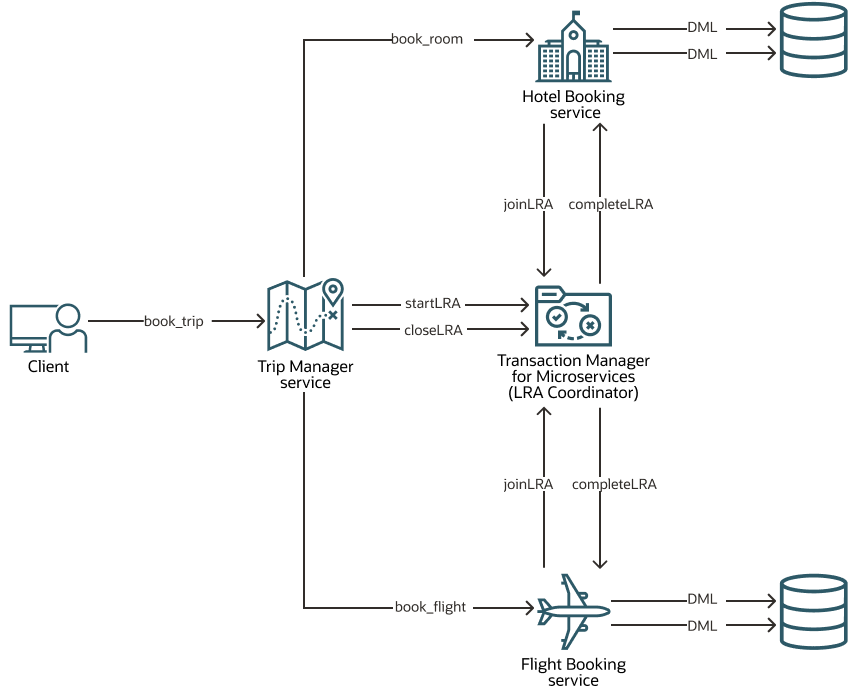
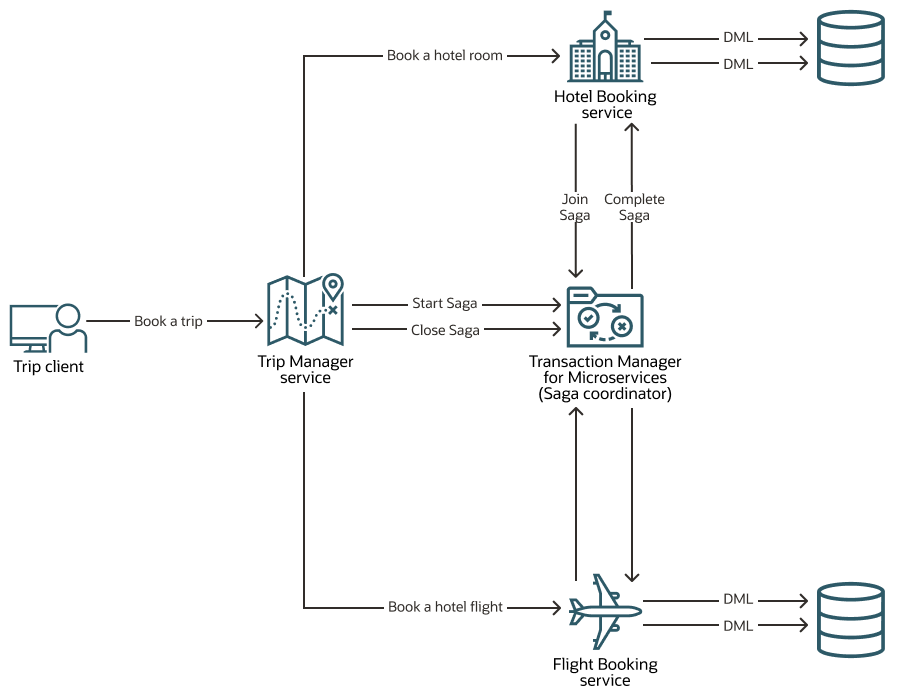
Updated link to download the latest ORDS image
Updated link to download the latest ORDS image
+ change in the links

diff --git a/tmm-run-sample-apps/run-lra-app/run-lra-app.md b/tmm-run-sample-apps/run-lra-app/run-lra-app.md
@@ -1,23 +1,23 @@
-# Run Travel Agent App which Uses LRA
+# Run Travel Agent App which Uses Saga
 
 ## Introduction
 
-Run a Travel Agent application that uses the Long Running Action (LRA) transaction protocol to book a trip and understand how you can use Oracle Transaction Manager for Microservices (MicroTx) to coordinate the transactions. Using samples is the fastest way for you to get familiar with MicroTx.
-Code for the Travel Agent application is available in the MicroTx distribution. The MicroTx library files are already integrated with the application code.
+Run a Travel Agent application that uses the Saga transaction protocol to book a trip and understand how you can use Oracle Transaction Manager for Microservices (MicroTx) to coordinate the transactions. The Saga transaction protocol is based on Eclipse MicroProfile Long Running Actions (LRA).
 
 Estimated Time: *10 minutes*
 
 Watch the video below for a quick walk-through of the lab.
-[Run the Travel Agent App Using LRA](videohub:1_0g2khxyc)
+[Run the Travel Agent App Using Saga](videohub:1_0g2khxyc)
 
 ### About the Travel Agent Application
 
-The Travel Agent  application demonstrates how you can develop microservices that participate in LRA transactions while using MicroTx to coordinate the transactions. When you run the application, it makes a provisional booking by reserving a hotel room and a flight ticket. Only when you provide approval to confirm the provisional booking, the booking of the hotel room and flight ticket is confirmed. If you cancel the provisional booking, the hotel room and flight ticket that was blocked is released and the booking is canceled. The flight service in this example allows only two confirmed bookings by default. To test the failure scenario, the flight service sample app rejects any additional booking requests after two confirmed bookings. This leads to the cancellation (compensation) of a provisionally booked hotel within the trip and the trip is not booked.
+The Travel Agent application demonstrates how you can develop microservices that participate in Saga transactions while using MicroTx to coordinate the transactions. When you run the application, it makes a provisional booking by reserving a hotel room and a flight ticket. Only when you provide approval to confirm the provisional booking, the booking of the hotel room and flight ticket is confirmed. If you cancel the provisional booking, the hotel room and flight ticket that was blocked is released and the booking is canceled. The flight service in this example allows only two confirmed bookings by default. To test the failure scenario, the flight service app rejects any additional booking requests after two confirmed bookings. This leads to the cancellation (compensation) of a provisionally booked hotel within the trip and the trip is not booked.
 
-The following figure shows a sample LRA application, which contains several microservices, to demonstrate how you can develop microservices that participate in LRA transactions.
-![Microservices in sample LRA application](./images/lra-sample-app.png)
+The following figure shows a sample Saga application, which contains several microservices, to demonstrate how you can develop microservices that participate in Saga transactions. Code for the Travel Agent application is available in the MicroTx distribution package. The MicroTx library files are already integrated with the application code.
 
-For more details, see [About the Sample LRA Application](https://docs.oracle.com/en/database/oracle/transaction-manager-for-microservices/23.4.1/tmmdg/set-sample-applications.html#GUID-C5332159-BD13-4210-A02E-475107919FD9) in the *Transaction Manager for Microservices Developer Guide*.
+![Microservices in sample Saga application](./images/lra-sample-app.png)
+
+For more details, see [About the Sample Saga Application](https://docs.oracle.com/pls/topic/lookup?ctx=microtx-latest&id=TMMDG-GUID-C5332159-BD13-4210-A02E-475107919FD9) in the *Transaction Manager for Microservices Developer Guide*.
 
 ### Objectives
 
@@ -259,11 +259,11 @@ The source code of the Travel Agent application is present in folder: /home/orac
 
 You can use the VIM editor to view the source code files. You can also use the Text Editor application to view the source code files. To bring up the Text Editor, click on Activities (top left) -> Show Applications -> Text Editor. Inside Text Editor, select Open a File and browse to the source code files in the folders shown above.
 
-You may now **proceed to the next lab** to run a sample XA application. If you do not want to proceed further and would like to finish the LiveLabs and clean up the resources, then complete **Lab 6: Environment Clean Up**.
+You may now **proceed to the next lab** to run a sample XA application. If you do not want to proceed further and would like to finish the LiveLabs and clean up the resources, then complete **Lab 5: Clean Up**.
 
 ## Learn More
 
-* [Develop Applications with LRA](https://doc.oracle.com/en/database/oracle/transaction-manager-for-microservices/23.4.1/tmmdg/develop-lra-applications.html#GUID-63827BB6-7993-40B5-A753-AC42DE97F6F4)
+* [Develop Applications with Saga](https://docs.oracle.com/pls/topic/lookup?ctx=microtx-latest&id=TMMDG-GUID-63827BB6-7993-40B5-A753-AC42DE97F6F4)
 
 ## Acknowledgements
 

diff --git a/microtx-ords-data-consistency/transfer-funds/transfer-funds.md b/microtx-ords-data-consistency/transfer-funds/transfer-funds.md
@@ -180,6 +180,31 @@ Run the following commands to deploy Kiali and Jaeger.
     </copy>
     ```
 
+    If Kiali is not deployed, run the following commands to pull the Kiali image and deploy it.
+
+    1. Retrieve the Kiali image.
+
+        ```text
+        <copy>
+        wget https://raw.githubusercontent.com/istio/istio/release-1.17/samples/addons/kiali.yaml
+        </copy>
+        ```
+
+    2. Specify the image pull policy.
+
+        ```text
+        <copy>
+        sed -i 's/imagePullPolicy: Always/imagePullPolicy: IfNotPresent/g' kiali.yaml
+        </copy>
+        ```
+
+    3. Deploy Kiali.
+        ```text
+        <copy>
+        kubectl apply -f kiali.yaml
+        </copy>
+        ```
+
 2. Deploy Prometheus.
 
     ```text
@@ -325,10 +350,10 @@ You may now **proceed to the next lab.**
 
 ## Learn More
 
-* [Develop Applications with XA](http://docs.oracle.com/en/database/oracle/transaction-manager-for-microservices/23.4.1/tmmdg/develop-xa-applications.html#GUID-D9681E76-3F37-4AC0-8914-F27B030A93F5)
+* [Develop Applications with XA](https://docs.oracle.com/pls/topic/lookup?ctx=microtx-latest&id=TMMDG-GUID-D9681E76-3F37-4AC0-8914-F27B030A93F5)
 
 ## Acknowledgements
 
 * **Author** - Sylaja Kannan, Consulting User Assistance Developer
 * **Contributors** - Brijesh Kumar Deo and Bharath MC
-* **Last Updated By/Date** - Sylaja Kannan, February 2024
+* **Last Updated By/Date** - Sylaja Kannan, July 2024

diff --git a/tmm-run-sample-apps/introduction/introduction.md b/tmm-run-sample-apps/introduction/introduction.md
@@ -10,7 +10,7 @@ Estimated Workshop Time: *50 minutes*
 
 In this workshop, you will learn how to:
 
-* Run a Travel Agent application, which uses the LRA transaction protocol, to book a hotel and flight ticket. Learn how MicroTx manages LRA transactions.
+* Run a Travel Agent application, which uses the Saga transaction protocol, to book a hotel and flight ticket. Learn how MicroTx manages Saga transactions.
 * Run a Transfer application, which uses the XA transaction protocol, to transfer an amount from one department to another. Learn how MicroTx manages XA transactions.
 
 ### Prerequisites
@@ -23,8 +23,8 @@ Let's begin! If you need to create an Oracle Cloud account, click **Get Started*
 
 ## Task: Learn More
 
-* [Oracle® Transaction Manager for Microservices Developer Guide](http://docs.oracle.com/en/database/oracle/transaction-manager-for-microservices/23.4.1/tmmdg/index.html)
-* [Oracle® Transaction Manager for Microservices Quick Start Guide](http://docs.oracle.com/en/database/oracle/transaction-manager-for-microservices/23.4.1/tmmqs/index.html)
+* [Oracle® Transaction Manager for Microservices Developer Guide](https://docs.oracle.com/pls/topic/lookup?ctx=microtx-latest&id=TMMDG)
+* [Oracle® Transaction Manager for Microservices Quick Start Guide](https://docs.oracle.com/pls/topic/lookup?ctx=microtx-latest&id=TMMQS)
 
 ## Acknowledgements
 

diff --git a/microtx-ords-data-consistency/prepare-setup/prepare-setup.md b/microtx-ords-data-consistency/prepare-setup/prepare-setup.md
@@ -18,7 +18,7 @@ This lab assumes you have:
 ## Task 1: Download Oracle Resource Manager (ORM) stack ZIP file
 1.  Click the following link to download the Resource Manager ZIP file that you need to build your environment.
 
-    - [ll-orm-microtx-xa-3.0-ords-freetier.zip](https://c4u04.objectstorage.us-ashburn-1.oci.customer-oci.com/p/EcTjWk2IuZPZeNnD_fYMcgUhdNDIDA6rt9gaFj_WZMiL7VvxPBNMY60837hu5hga/n/c4u04/b/livelabsfiles/o/data-management-library-files/ll-orm-microtx-xa-3.0-ords-freetier.zip)
+    - [ll-orm-microtx-xa-4.0-ords-freetier.zip](https://c4u04.objectstorage.us-ashburn-1.oci.customer-oci.com/p/EcTjWk2IuZPZeNnD_fYMcgUhdNDIDA6rt9gaFj_WZMiL7VvxPBNMY60837hu5hga/n/c4u04/b/livelabsfiles/o/data-management-library-files/ll-orm-microtx-xa-4.0-ords-freetier.zip)
 
 2. Save the ZIP file in your downloads folder.
 
@@ -71,4 +71,4 @@ You may now **proceed to the next lab**.
 ## Acknowledgements
 * **Author** - Rene Fontcha, LiveLabs Platform Lead, NA Technology
 * **Contributors** - Meghana Banka, Brijesh Deo
-* **Last Updated By/Date** - Sylaja Kannan, July 2023
+* **Last Updated By/Date** - Sylaja Kannan, July 2024

diff --git a/microtx-ords-data-consistency/introduction/introduction.md b/microtx-ords-data-consistency/introduction/introduction.md
@@ -28,8 +28,8 @@ Let's begin! If you need to create an Oracle Cloud account, click **Get Started*
 
 ## Learn More
 
-* [Oracle® Transaction Manager for Microservices Developer Guide](http://docs.oracle.com/en/database/oracle/transaction-manager-for-microservices/23.4.1/tmmdg/index.html)
-* [Oracle® Transaction Manager for Microservices Quick Start Guide](http://docs.oracle.com/en/database/oracle/transaction-manager-for-microservices/23.4.1/tmmqs/index.html)
+* [Oracle® Transaction Manager for Microservices Developer Guide](https://docs.oracle.com/pls/topic/lookup?ctx=microtx-latest&id=TMMDG)
+* [Oracle® Transaction Manager for Microservices Quick Start Guide](https://docs.oracle.com/pls/topic/lookup?ctx=microtx-latest&id=TMMQS)
 
 ## Acknowledgements
 

diff --git a/microtx-xa-stock-broker-app/introduction/introduction.md b/microtx-xa-stock-broker-app/introduction/introduction.md
@@ -47,8 +47,8 @@ Let's begin! If you need to create an Oracle Cloud account, click **Get Started*
 
 ## Learn More
 
-* [Oracle® Transaction Manager for Microservices Developer Guide](http://docs.oracle.com/en/database/oracle/transaction-manager-for-microservices/23.4.1/tmmdg/index.html)
-* [Oracle® Transaction Manager for Microservices Quick Start Guide](http://docs.oracle.com/en/database/oracle/transaction-manager-for-microservices/23.4.1/tmmqs/index.html)
+* [Oracle® Transaction Manager for Microservices Developer Guide](https://docs.oracle.com/pls/topic/lookup?ctx=microtx-latest&id=TMMDG)
+* [Oracle® Transaction Manager for Microservices Quick Start Guide](https://docs.oracle.com/pls/topic/lookup?ctx=microtx-latest&id=TMMQS)
 
 ## Acknowledgements
 
